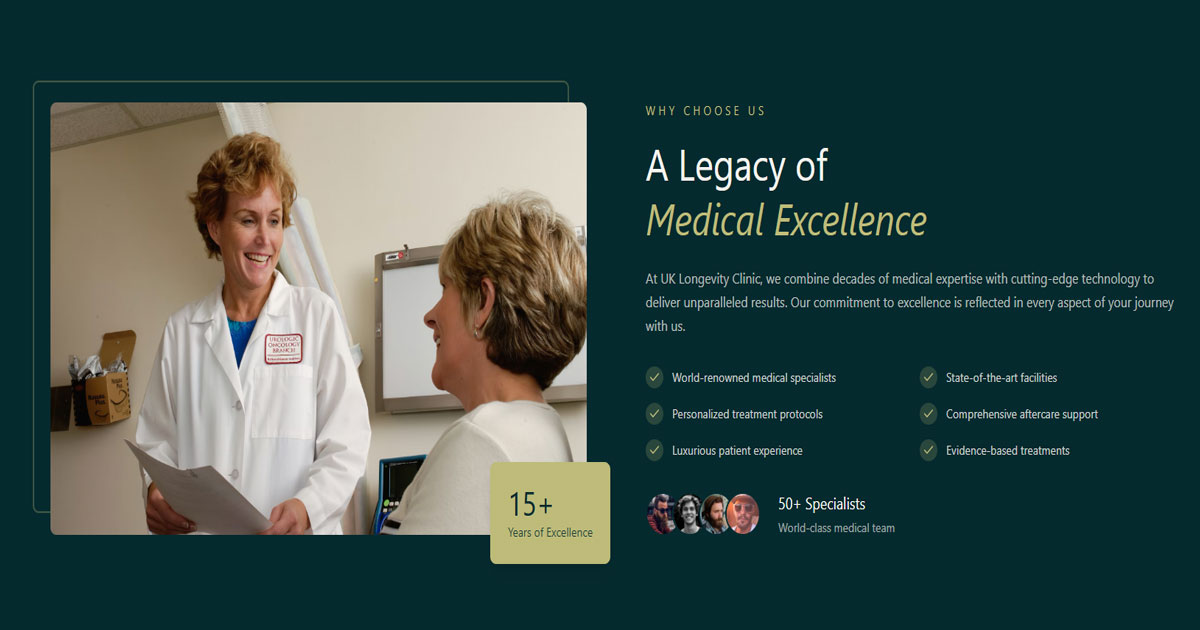
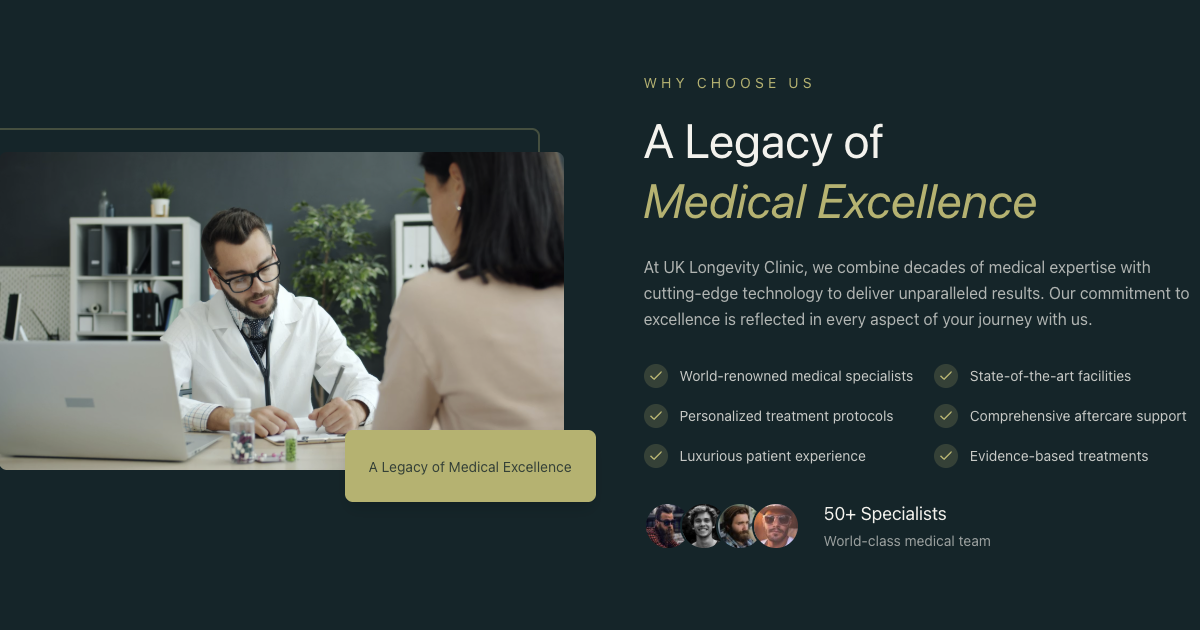
Clean up

diff --git a/app/about/page.tsx b/app/about/page.tsx
@@ -1,10 +1,16 @@
 import type { Metadata } from 'next';
 import AboutClient from './AboutClient';
 
+const aboutTitle = 'About Our London Longevity Clinic';
+const aboutDescription =
+  'Learn about UK Longevity Clinic, our London-based clinical team, and our science-led mission to advance preventative and personalised longevity care in the UK.';
+
+/** Public URL path (spaces encoded for reliable OG/Twitter crawlers). */
+const aboutOgImagePath = '/assets/Medic-Care-Direct.jpeg';
+
 export const metadata: Metadata = {
-  title: 'About Our London Longevity Clinic',
-  description:
-    'Learn about UK Longevity Clinic, our London-based clinical team, and our science-led mission to advance preventative and personalised longevity care in the UK.',
+  title: aboutTitle,
+  description: aboutDescription,
   keywords: [
     'about uk longevity clinic',
     'longevity clinic london team',
@@ -12,6 +18,26 @@ export const metadata: Metadata = {
   ],
   alternates: {
     canonical: '/about',
+  },
+  openGraph: {
+    title: aboutTitle,
+    description: aboutDescription,
+    url: '/about',
+    type: 'website',
+    siteName: 'UK Longevity Clinic',
+    locale: 'en_GB',
+    images: [
+      {
+        url: aboutOgImagePath,
+        alt: 'UK Longevity Clinic - About Us',
+      },
+    ],
+  },
+  twitter: {
+    card: 'summary_large_image',
+    title: aboutTitle,
+    description: aboutDescription,
+    images: [aboutOgImagePath],
   },
 };
 

diff --git a/app/about/AboutClient.tsx b/app/about/AboutClient.tsx
@@ -134,7 +134,7 @@ const AboutClient = () => {
             <FadeInLeft className="min-w-0">
               <div className="relative max-w-full">
                 <img
-                  src="/assets/Medic Care Direct.jpeg"
+                  src="/assets/Medic-Care-Direct.jpeg"
                   alt="UK Longevity Clinic"
                   className="rounded-lg shadow-elegant w-full max-w-full"
                 />
